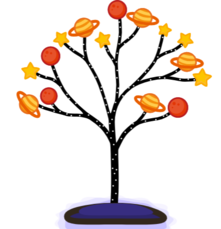
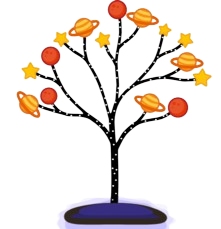
improved the homepage, added background

diff --git a/homepage.py b/homepage.py
@@ -3,7 +3,7 @@ import os
 
 from shop import shopPage
 from choreList import choresPage
-from bottomBar import createBottomBar
+from bars import createBottomBar, createTopBar
 
 
 def homePage(root):
@@ -31,10 +31,23 @@ def homePage(root):
 
     canvas.pack()
 
+    #Create the background
+    BASE_DIR = os.path.dirname(os.path.abspath(__file__))
+    backgroundImage = tk.PhotoImage(
+    file=os.path.join(BASE_DIR, "Tree Graphics", "app background.png")
+    )
+
+    canvas.create_image(
+        161,
+        290,
+        image=backgroundImage
+    )
+    canvas.bgImage = backgroundImage
+
     #Create the tree graphic
     BASE_DIR = os.path.dirname(os.path.abspath(__file__))
     treeImage = tk.PhotoImage(
-    file=os.path.join(BASE_DIR, "Tree Graphics", "big default.png")
+    file=os.path.join(BASE_DIR, "Tree Graphics", "big on fire.png")
     )
 
     canvas.create_image(
@@ -73,6 +86,16 @@ def homePage(root):
         outline=""
     )
 
+    #Create the XP amount text
+    canvas.create_text(
+    161,
+    barY2 + 15,
+    text=f"{money}/{maxMoney} XP",
+    font=("Noto Sans HK Black", 10),
+    fill="black"
+    )
+
+    createTopBar(root, "Home page")
     createBottomBar(root)
 
 def profilePage(root):

diff --git a/bars.py b/bars.py
@@ -1,12 +1,54 @@
 import tkinter as tk
 
+def createTopBar(root, pageTitle):
+    #Format the bar at the top
+    topBar = tk.Frame(
+        root,
+        bg="#EEEEEE",
+        height=50
+    )
+
+    topBar.place(
+        x=0,
+        y=0,
+        width=322,
+        height=50
+    )
+
+    #Divider line below the top bar
+    dividerLine = tk.Frame(
+        root,
+        bg="#CCCCCC",
+        height=2
+    )
+
+    dividerLine.place(
+        x=0,
+        y=50,
+        width=322,
+        height=2
+    )
+
+    #Page title text
+    titleLabel = tk.Label(
+        topBar,
+        text=pageTitle,
+        font=("Noto Sans HK Black", 14),
+        bg="#EEEEEE"
+    )
+
+    titleLabel.place(
+        relx=0.5,
+        rely=0.5,
+        anchor="center"
+    )
 
 def createBottomBar(root):
     from shop import shopPage
     from choreList import choresPage
     from homepage import homePage
 
-    ##Create the grey divider line to seperate the bottom bar from the rest of the page
+    #Create the grey divider line to seperate the bottom bar from the rest of the page
     dividerLine = tk.Frame(
         root,
         bg="#CCCCCC",

diff --git a/choreList.py b/choreList.py
@@ -1,6 +1,7 @@
 import tkinter as tk
+import os
 
-from bottomBar import createBottomBar
+from bars import createBottomBar, createTopBar
 
 def choresPage(root):
 
@@ -18,11 +19,18 @@ def choresPage(root):
 
     canvas.pack()
 
-    canvas.create_text(
-    161,
-    100,
-    text="Chores Page",
-    font=("Noto Sans HK Black", 16)
-)
+    #Create the background
+    BASE_DIR = os.path.dirname(os.path.abspath(__file__))
+    backgroundImage = tk.PhotoImage(
+    file=os.path.join(BASE_DIR, "Tree Graphics", "app background.png")
+    )
 
+    canvas.create_image(
+        161,
+        290,
+        image=backgroundImage
+    )
+    canvas.bgImage = backgroundImage
+
+    createTopBar(root, "Chores list")
     createBottomBar(root)

diff --git a/shop.py b/shop.py
@@ -1,6 +1,7 @@
 import tkinter as tk
+import os
 
-from bottomBar import createBottomBar
+from bars import createBottomBar, createTopBar
 
 def shopPage(root):
 
@@ -18,11 +19,18 @@ def shopPage(root):
 
     canvas.pack()
 
-    canvas.create_text(
-    161,
-    100,
-    text="Shop Page",
-    font=("Noto Sans HK Black", 16)
-)
+    #Create the background
+    BASE_DIR = os.path.dirname(os.path.abspath(__file__))
+    backgroundImage = tk.PhotoImage(
+    file=os.path.join(BASE_DIR, "Tree Graphics", "app background.png")
+    )
 
+    canvas.create_image(
+        161,
+        290,
+        image=backgroundImage
+    )
+    canvas.bgImage = backgroundImage
+
+    createTopBar(root, "Store")
     createBottomBar(root)

diff --git a/login.py b/login.py
@@ -34,7 +34,7 @@ def loginPage(root):
     root.resizable(False, False)  #Disable resizing
 
     #Create the label text
-    label = tk.Label(root, text="Welcome to APP NAME", font=("Noto Sans HK Black", 12))
+    label = tk.Label(root, text="Welcome to Financial Growth", font=("Noto Sans HK Black", 12))
     label.pack(pady=10)
 
     #Create text fields for username and password
